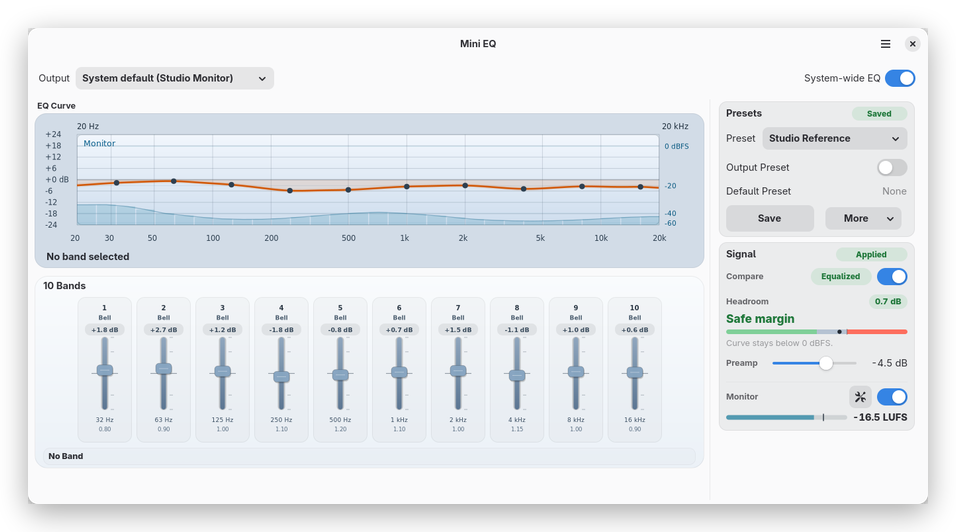
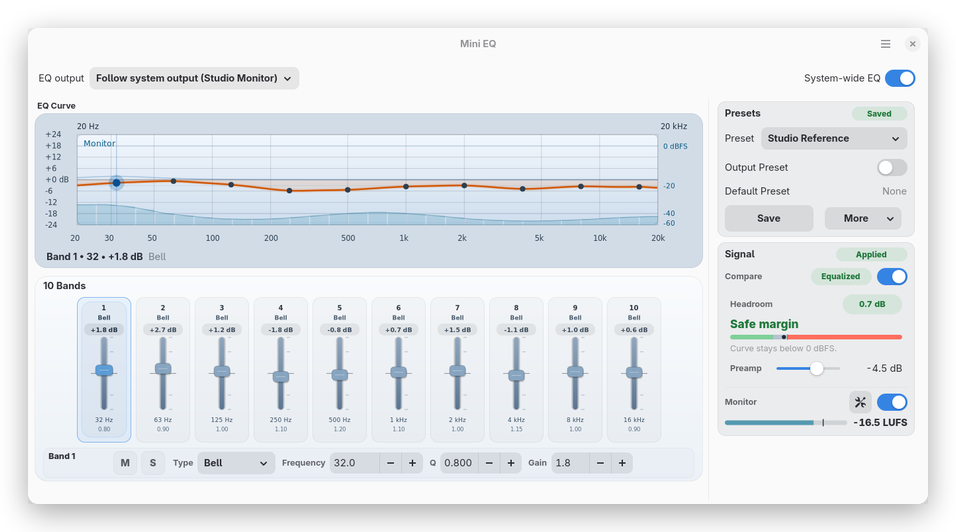
Prepare Mini EQ 0.6.0 release

diff --git a/tools/demo_runtime.py b/tools/demo_runtime.py
@@ -47,7 +47,7 @@ class DemoController:
         self.analyzer_levels_callback = None
         self.analyzer_loudness_callback = None
         self.analyzer_enabled = False
-        self.route_enabled = False
+        self.routed = False
         self.demo_sink = PipeWireNode(
             bound_id=101,
             object_serial="101",
@@ -151,7 +151,7 @@ class DemoController:
         return True
 
     def route_system_audio(self, enabled: bool) -> None:
-        self.route_enabled = enabled
+        self.routed = enabled
 
     def follow_system_default_output(self) -> None:
         self.follow_default_output = True

diff --git a/CHANGELOG.md b/CHANGELOG.md
@@ -1,5 +1,16 @@
 # Changelog
 
+## 0.6.0 - 2026-05-09
+
+- Replace the direct WirePlumber Python integration with pipewire-gobject for
+  app-facing PipeWire registry, metadata, routing, and monitor-capture access.
+- Bundle pipewire-gobject 0.3.4 in Flatpak and require
+  `pipewire-gobject>=0.3.4,<0.4` for PyPI installs.
+- Keep system-wide EQ, monitor capture, output changes, and shutdown behavior
+  covered by a live nested-GNOME/AT-SPI runtime smoke test.
+- Remove the old WirePlumber 0.4 compatibility build path and tighten release
+  preflight around the new PipeWire dependency boundary.
+
 ## 0.5.1 - 2026-05-07
 
 - Keep routing, EQ, analyzer, and output-preset switches synchronized with
